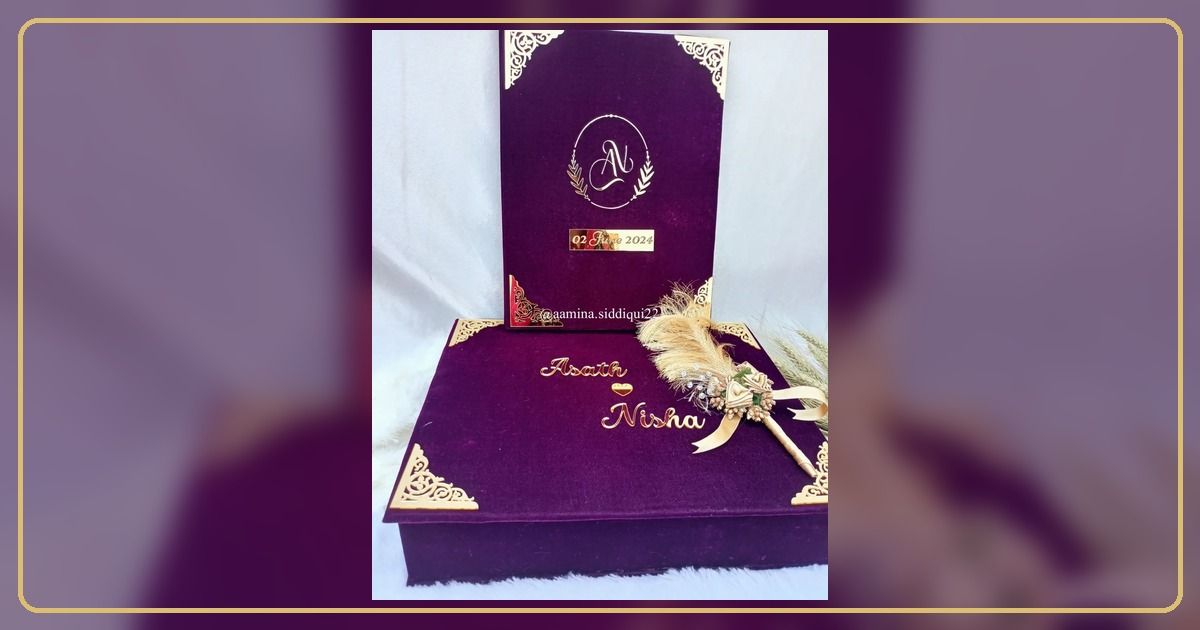
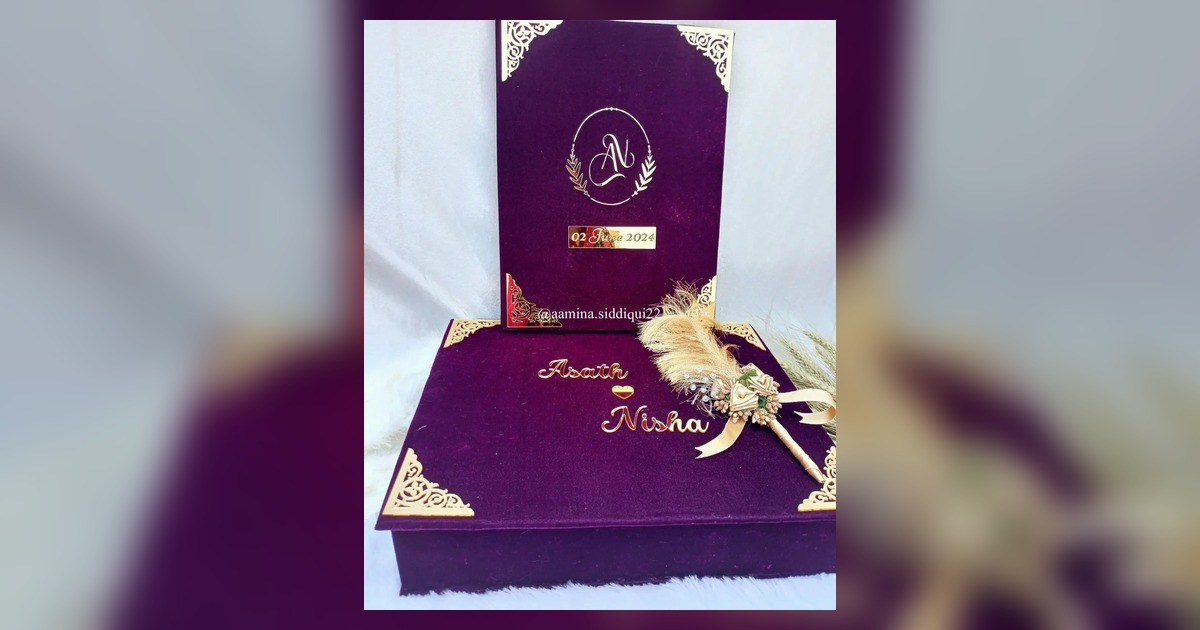
"invietd card "

diff --git a/Engagement/index.html b/Engagement/index.html
@@ -8,6 +8,7 @@
   <meta property="og:title" content="Rahul & Manisha — Engagement Ceremony 💍">
   <meta property="og:description" content="You are cordially invited to Rahul & Manisha's Engagement Ceremony · 27 November 2026 · Govind Palace, Dehri">
   <meta property="og:type" content="website">
+  <meta property="og:site_name" content="Rahul & Manisha | Engagement Invitation">
   <meta property="og:url" content="https://rohit802217.github.io/Engagement/Engagement/">
   <meta property="og:image" content="https://rohit802217.github.io/Engagement/Engagement/share-preview.jpg">
   <meta property="og:image:secure_url" content="https://rohit802217.github.io/Engagement/Engagement/share-preview.jpg">
@@ -742,53 +743,43 @@ shareBtn?.addEventListener('click', async (event) => {
 
   const name = getGuestName();
   const shareUrl = buildShareUrl(name);
-  const message = getShareMessage(name, shareUrl);
+  const message = shareUrl
+    ? `💌 You are invited to Rahul & Manisha's Engagement Ceremony!\nDear ${name}, please open the invitation card below.\n\n${shareUrl}`
+    : `💌 You are invited to Rahul & Manisha's Engagement Ceremony!\nDear ${name}, please open the invitation card.`;
 
-  // Native Share. Do not pass a file:// URL to navigator.share().
+  // On phones, open WhatsApp with the real invitation URL pre-filled.
+  // WhatsApp can then create a clickable link-preview card from the OG image
+  // in index.html. Tapping that preview opens the complete invitation.
+  if (shareUrl) {
+    const whatsappUrl = 'https://wa.me/?text=' + encodeURIComponent(message);
+    try {
+      window.location.href = whatsappUrl;
+      return;
+    } catch (e) {}
+  }
+
+  // Fallback for browsers/devices where WhatsApp cannot be opened.
   if (typeof navigator.share === 'function') {
     try {
-      const shareData = {
+      await navigator.share({
         title: 'Rahul & Manisha — Engagement Ceremony',
-        text: shareUrl ? `💍 Rahul & Manisha's Engagement Ceremony\nDear ${name}` : message
-      };
-      if (shareUrl) shareData.url = shareUrl;
-
-      if (typeof navigator.canShare === 'function' && !navigator.canShare(shareData)) {
-        delete shareData.url;
-      }
-
-      await navigator.share(shareData);
+        text: message,
+        ...(shareUrl ? { url: shareUrl } : {})
+      });
       return;
     } catch (err) {
       if (err && err.name === 'AbortError') return;
-      // Continue to WhatsApp/copy fallback for other browser share errors.
     }
   }
 
-  // WhatsApp fallback.
-  const whatsappUrl = 'https://wa.me/?text=' + encodeURIComponent(message);
-  let opened = false;
-  try {
-    const popup = window.open(whatsappUrl, '_blank', 'noopener,noreferrer');
-    opened = !!popup;
-  } catch (e) {}
-
-  if (opened) return;
-
-  const copied = await copyText(message);
+  const copied = await copyText(shareUrl || message);
   if (copied) {
-    showShareMessage(
-      shareUrl
-        ? 'Invitation link copied. Paste it in WhatsApp.'
-        : 'Invitation message copied. Paste it in WhatsApp.'
-    );
+    showShareMessage('Invitation link copied. Paste it in WhatsApp.');
   } else {
-    showShareMessage('WhatsApp could not be opened. Please copy and share the invitation.');
+    showShareMessage('Please copy the invitation link and share it in WhatsApp.');
   }
 });
 
 </script>
-<script src="https://cdnjs.cloudflare.com/ajax/libs/gsap/3.12.5/gsap.min.js"></script>
-<script src="js/app.js"></script>
 </body>
 </html>

diff --git a/Engagement/css/style.css b/Engagement/css/style.css
@@ -1438,16 +1438,23 @@ button:hover {
 /* Share button container */
 .share-row {
   margin-top: 12px;
-
   position: relative;
-
-  z-index: 5;
+  z-index: 20;
+  display: flex;
+  justify-content: center;
+  align-items: center;
+  visibility: visible !important;
+  opacity: 1 !important;
 }
+
 
 
 /* Green share button */
 .share-btn {
   opacity: 1 !important;
+  visibility: visible !important;
+  position: relative;
+  z-index: 21;
 
   display: inline-block;
 
